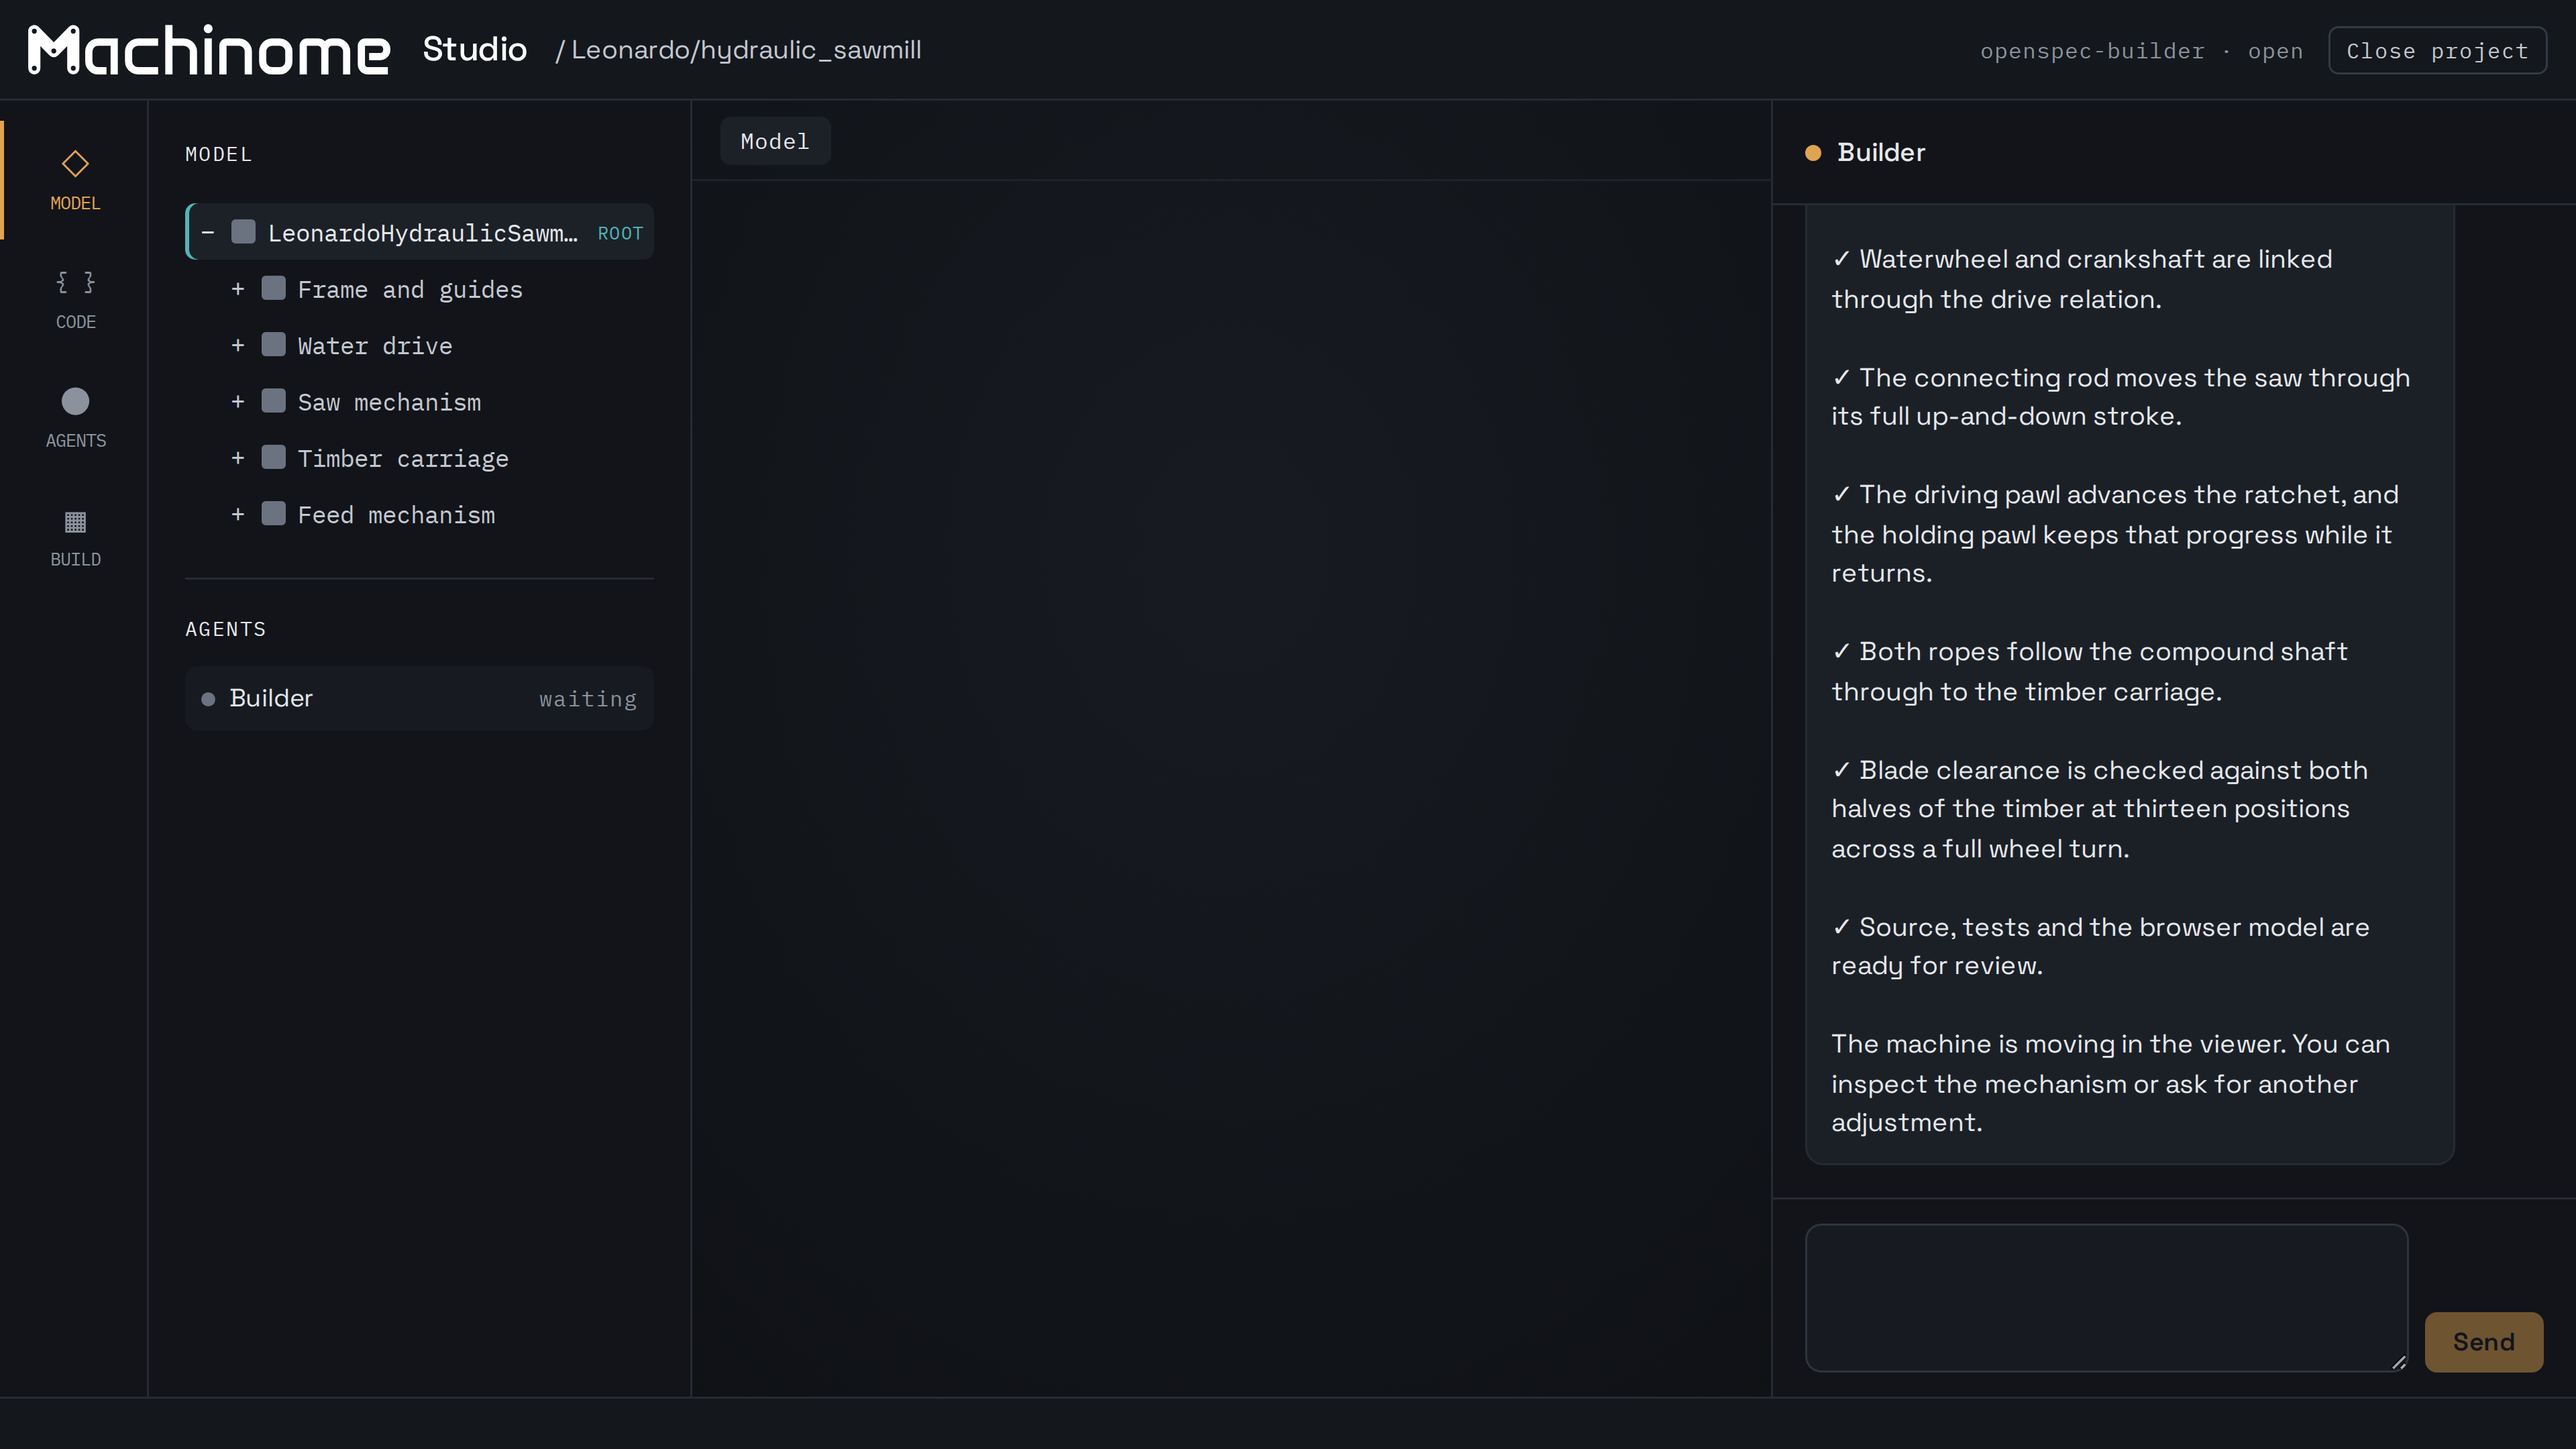
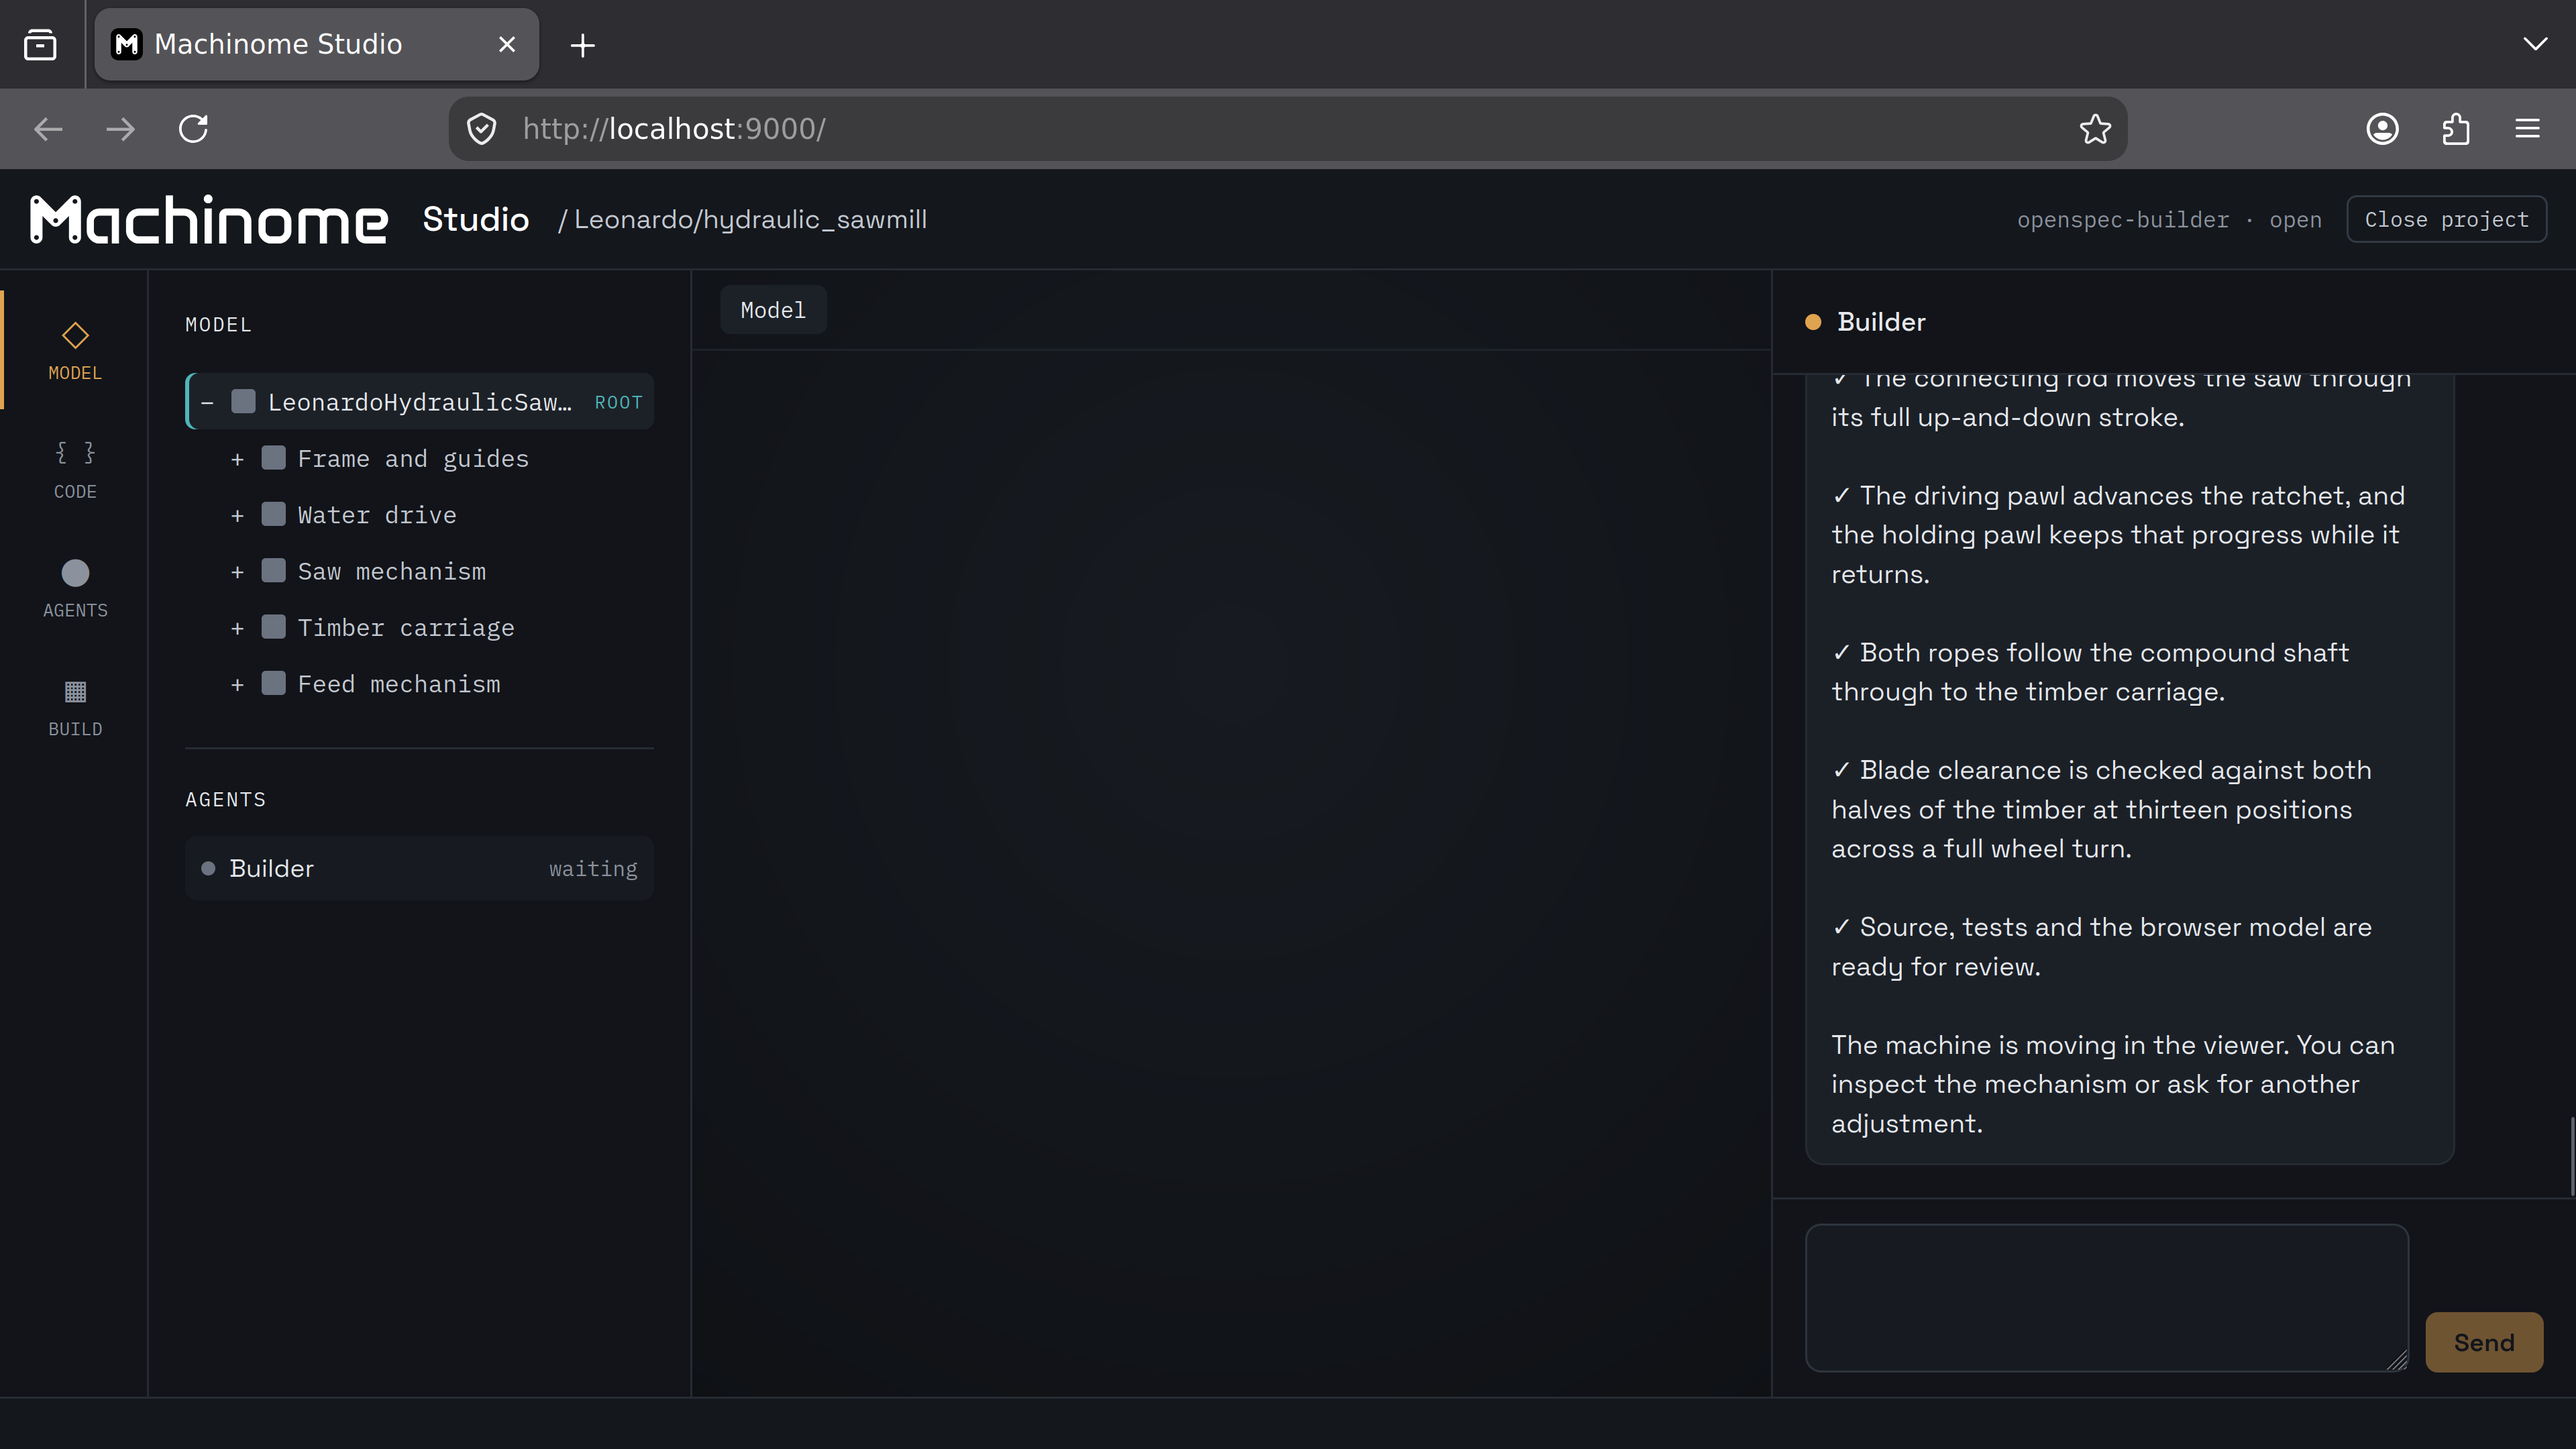
Frame Studio scene in a native Firefox window

diff --git a/videos/machinome-release-5/resize-capture-window.py b/videos/machinome-release-5/resize-capture-window.py
@@ -1,0 +1,27 @@
+"""Size one Firefox window on the capture's private Xvfb display."""
+# Copyright (C) 2026 Luis Henrique Cassis Fagundes. AGPL-3.0-only.
+import ctypes
+import re
+import sys
+
+display_name, window_id, width, height = sys.argv[1:]
+assert re.fullmatch(r":\d+", display_name)
+assert re.fullmatch(r"0x[0-9a-fA-F]+", window_id)
+assert 0 < int(width) <= 7680 and 0 < int(height) <= 4320
+x11 = ctypes.CDLL("libX11.so.6")
+x11.XOpenDisplay.argtypes = [ctypes.c_char_p]
+x11.XOpenDisplay.restype = ctypes.c_void_p
+x11.XMoveResizeWindow.argtypes = [ctypes.c_void_p, ctypes.c_ulong,
+                                ctypes.c_int, ctypes.c_int, ctypes.c_uint, ctypes.c_uint]
+x11.XRaiseWindow.argtypes = [ctypes.c_void_p, ctypes.c_ulong]
+x11.XSync.argtypes = [ctypes.c_void_p, ctypes.c_int]
+x11.XCloseDisplay.argtypes = [ctypes.c_void_p]
+display = x11.XOpenDisplay(display_name.encode())
+assert display, "The private capture display is unavailable"
+try:
+    window = int(window_id, 16)
+    x11.XMoveResizeWindow(display, window, 0, 0, int(width), int(height))
+    x11.XRaiseWindow(display, window)
+    x11.XSync(display, 0)
+finally:
+    x11.XCloseDisplay(display)

diff --git a/videos/machinome-release-5/VERIFICATION.md b/videos/machinome-release-5/VERIFICATION.md
@@ -7,6 +7,34 @@ the earlier narrated MP4 rehearsal remains unchanged. No publication.
 
 ## Studio scene and continuous narration — current preview
 
+### Firefox-window follow-up
+
+The pilot requested the approved Studio scene inside Mozilla Firefox with
+`http://localhost:9000/` in the address bar. A new pre-change assertion failed
+because the earlier capture contained no browser window. The new asset is a
+native Firefox 153.0 capture, not a raster edit or imitation browser chrome.
+An isolated Xvfb display holds one temporary Firefox profile/window; a scoped
+X11 helper sizes it to 3840×2160 and FFmpeg captures its pixels with no mouse.
+The address bar is unfocused and displays the complete requested URL. A
+tab-local history replacement changes only the capture's displayed address.
+
+Native controls are 84⅓ CSS pixels high. Capture geometry adds that offset
+to the Studio rectangles; the moving model, chat highlight, both menu targets
+and typing now fit the browser content. The strengthened Studio test checks
+all four rectangle coordinates, not only horizontal placement. Its 13 frames
+and the 83 general preview checks pass; the native capture, full-screen film
+frame and chat highlight were visually inspected. No broker writes or page
+errors were observed. The chat retains the long scroll with only its tail
+visible (3140px scroll position, 409px visible transcript).
+
+Comparison against `_build/revisions/before-firefox/movie.json` proves the
+only document changes are the Studio screenshot and its geometry/provenance.
+All narration, timing, camera and motion fields are identical. Mixed-audio
[1 lines of base64/hex data omitted]
+the original MP4 also retains its hash below. No synthesis or MP4 render.
+
+### Studio revision baseline
+
 194s at 1920×1080 / 24 fps. One fresh paid request produced the 188.72s
 Jessica/Eleven v3 take, with 39 unique measured beats. The cache is
 `_build/audio/continuous-11e9ec5460036865.wav`, SHA-256

diff --git a/videos/machinome-release-5/HANDOFF.md b/videos/machinome-release-5/HANDOFF.md
@@ -14,6 +14,17 @@ Live URL: http://127.0.0.1:8785/#movie (194s).
 Log: `/tmp/machinome-release-5-live.log`. Cut 4 stays on 8784.
 Studio was already running on http://127.0.0.1:9000; leave it alone.
 
+Latest visual follow-up: the screenshot is now a **native Firefox window**
+showing `http://localhost:9000/`. Captured on a private 3840×2160 Xvfb display
+with Playwright Firefox 153.0 (DPR 3), not a drawn browser mockup. The capture
+helper sizes only that isolated window, and FFmpeg captures the full frame.
+The page's native offset is 84⅓ CSS pixels; recorded model/menu rectangles
+include it. The existing composition uses the new geometry automatically.
+All movie fields except the screenshot and capture geometry are identical
+to the approved Studio revision (`b7ea1d6`). Narration and MP4 hashes are
+unchanged, and no speech generation or MP4 render was performed. Before-frame
+records remain under `_build/revisions/before-firefox/`.
+
 The pilot corrected the new narration: **remove** “Agents can write mechanical
 models because of tests.” After the Studio → testing transition use
 “Machinome also lets us test how parts fit together.” This is implemented.
@@ -34,7 +45,8 @@ Do not regenerate without direction.
   It loads the real sawmill export and assembly navigator, then hides only
   the model host. A 3000px padding creates the long chat scroll without
   filler text. No agent conversation or broker state was changed.
-- `assets/studio-background.png`: 3840×2160, captured at 1280×720 / DPR 3.
+- `assets/studio-background.png`: 3840×2160, native window 1280×720 / DPR 3;
+  its page is 1280×636 beneath the Firefox controls.
   `assets/studio-capture.json` records rectangles, text, scroll and provenance.
 - `StudioSurface` is a project element containing the shared model's `Slot`.
   It synchronously moves that box and the screenshot from cue progress; no

diff --git a/videos/machinome-release-5/assets/README.md b/videos/machinome-release-5/assets/README.md
@@ -1,14 +1,25 @@
 # Studio background
 
-`studio-background.png` photographs Machinome Studio's real UI with the
-existing Leonardo hydraulic sawmill export. `studio-capture.json` records
-its SHA-256, CSS rectangles and browser-only staged conversation. Reproduce
+`studio-background.png` photographs a native Mozilla Firefox window showing
+`http://localhost:9000/` and Machinome Studio's real UI with the existing
+Leonardo hydraulic sawmill export. `studio-capture.json` records its SHA-256,
+window-relative CSS rectangles and browser-only staged conversation. Reproduce
 with `../capture-studio.mjs`; it neither opens a real session nor submits a
 message. The fictional checklist is a video prop, not agent-work evidence.
 
 The model was loaded and then hidden, retaining the real assembly navigator.
 The film draws its own moving View over the empty model area. The chat has
 3000px of leading padding, not thousands of fabricated words.
+
+Capture: Firefox 153.0 from Playwright, on an isolated 3840×2160 Xvfb
+display at 3 pixels per CSS pixel. Native browser controls occupy the first
+84⅓ CSS pixels; the live model, menu highlights and typed prompt include that
+offset. `resize-capture-window.py` sizes only this private display's Firefox
+window. FFmpeg captures the native window, without drawing imitation controls
+or modifying the resulting pixels. The root URL is set by a tab-local history
+replacement after the staged project loads, not by changing Studio's routing.
+The native address bar is unfocused in the final capture. Mozilla/Firefox
+names and browser artwork are used referentially, not as an endorsement.
 
 Studio UI: Copyright (C) 2023–2026 Luis Henrique Cassis Fagundes,
 AGPL-3.0-or-later, https://github.com/machinome/machinome-studio/.

diff --git a/videos/machinome-release-5/README.md b/videos/machinome-release-5/README.md
@@ -15,7 +15,8 @@ on their spoken phrases. Testing begins at 114.333s with “Machinome also
 lets us test how parts fit together.” The discarded sentence about agents
 and tests is absent.
 
-The screenshot is the real Studio UI with the existing sawmill export,
+The screenshot includes a real Mozilla Firefox window with the address
+`http://localhost:9000/`, around the real Studio UI and existing sawmill export,
 a **browser-only staged** completion message, and a long scroll created
 by spacing rather than filler text. The actual model was hidden for the
 capture and is composed as a live View in the film. No broker session was
@@ -56,6 +57,15 @@ take-bound relation timing in `relation-timing.json`; a new take requires
 remeasuring that timing. It does not generate speech or render video.
 
 To recapture the staged Studio UI, with Studio already running at port 9000:
+the capture uses Playwright's Firefox, Xvfb, xwininfo, FFmpeg, and Python's
+standard-library ctypes with the system libX11. It captures a private virtual
+display, never the user's desktop. Install the capture browser only if missing:
+
+```sh
+PLAYWRIGHT_SKIP_BROWSER_GC=1 node /home/asa/devel/machinome/videomaker/node_modules/playwright/cli.js install firefox
+```
+
+Then capture the native tab/address bars and the staged page together:
 
 ```sh
 node videos/machinome-release-5/capture-studio.mjs /home/asa/devel/machinome/videomaker /home/asa/devel/machinome/machinome-viewer/machinome_viewer/widget/dist/machinome-viewer.js

diff --git a/videos/machinome-release-5/DIRECTION.md b/videos/machinome-release-5/DIRECTION.md
@@ -16,6 +16,10 @@ out while Studio's background fades in. Keep the camera unchanged, then
 translate and scale the composition until Studio fills the video.
 
 Capture the real Studio UI with the Leonardo hydraulic sawmill loaded.
+The follow-up request frames it in a real Mozilla Firefox window showing
+`http://localhost:9000/`; include the native tabs and address bar, and fit the
+moving model and all highlights to the page below those controls. Keep the
+approved camera, narration and timing unchanged.
 Stage a fictional end-of-work checklist in its chat, with only the tail
 visible and a long scroll made by spacing, not filler text. Hide the actual
 model for the screenshot; composite the existing moving model separately.

diff --git a/videos/machinome-release-5/description.md b/videos/machinome-release-5/description.md
@@ -54,7 +54,8 @@ Studio revision is one unedited provider performance, including its natural
 pause before the returning wheel line. No digital silence is spliced into
 the take, and spoken audio is not stretched or truncated.
 
-The Studio scene uses a screenshot of the real Machinome Studio interface
+The Studio scene uses a screenshot of a native Mozilla Firefox window at
+`http://localhost:9000/`, showing the real Machinome Studio interface
 with a browser-only staged completion message, not a recording of an actual
 agent session. The model was hidden for that screenshot and the existing
 moving sawmill is composited into its viewport. Studio's UI is copyright
